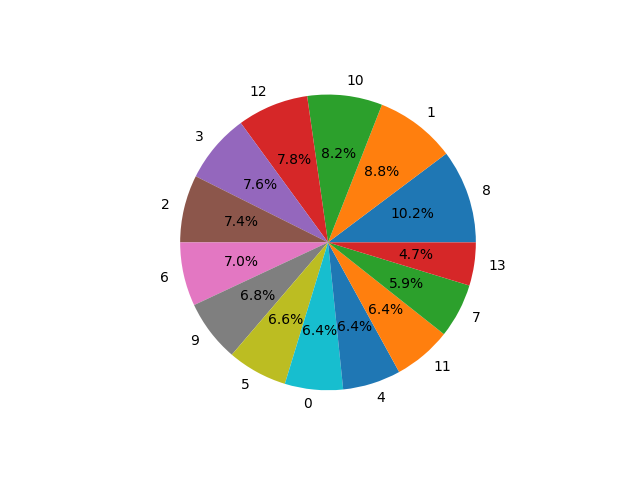
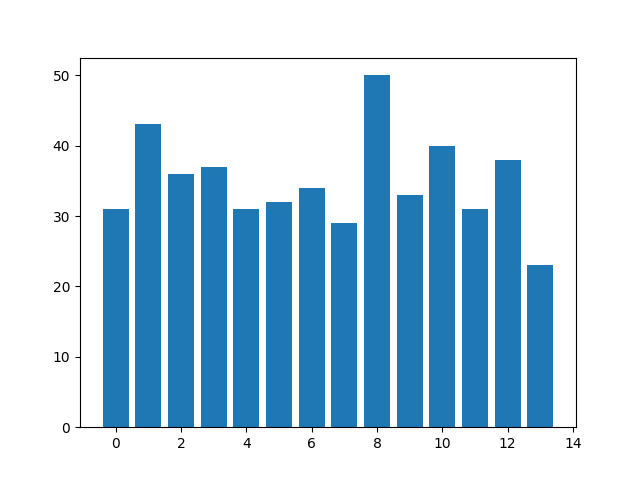
Changed Years To Bar Chart

diff --git a/createGraphs/createGraphs.py b/createGraphs/createGraphs.py
@@ -19,9 +19,26 @@ def makeAndStoreGraph(name, fileName):
     path = os.path.join(path, fileName)
     fig.savefig(path)
     
+def yearsBarChart(fileName):
+    unsortedDict = df['Years At Western'].value_counts().to_dict()
+    keysMax = max(list(unsortedDict.keys()))
+    for i in range(keysMax+1):
+        if (i not in unsortedDict.keys()):
+            unsortedDict[i] = 0
+    sortedDict = dict(sorted(unsortedDict.items()))
+    keys = list(sortedDict.keys())
+    vals = list(sortedDict.values())
+    fig, axs = plt.subplots()
+    axs.bar(keys, vals) 
+    path = os.path.join(dir, 'graphs')
+    path = os.path.join(path, fileName)
+    fig.savefig(path)
+    
+    
+    
         
 
 makeAndStoreGraph('Race/Ethnicity', 'raceEth.png')
-makeAndStoreGraph('Years At Western', 'years.png')
 makeAndStoreGraph('Gender', 'gender.png')
 makeAndStoreGraph('Employee Type', 'employeeType.png')
+yearsBarChart('years.png')
